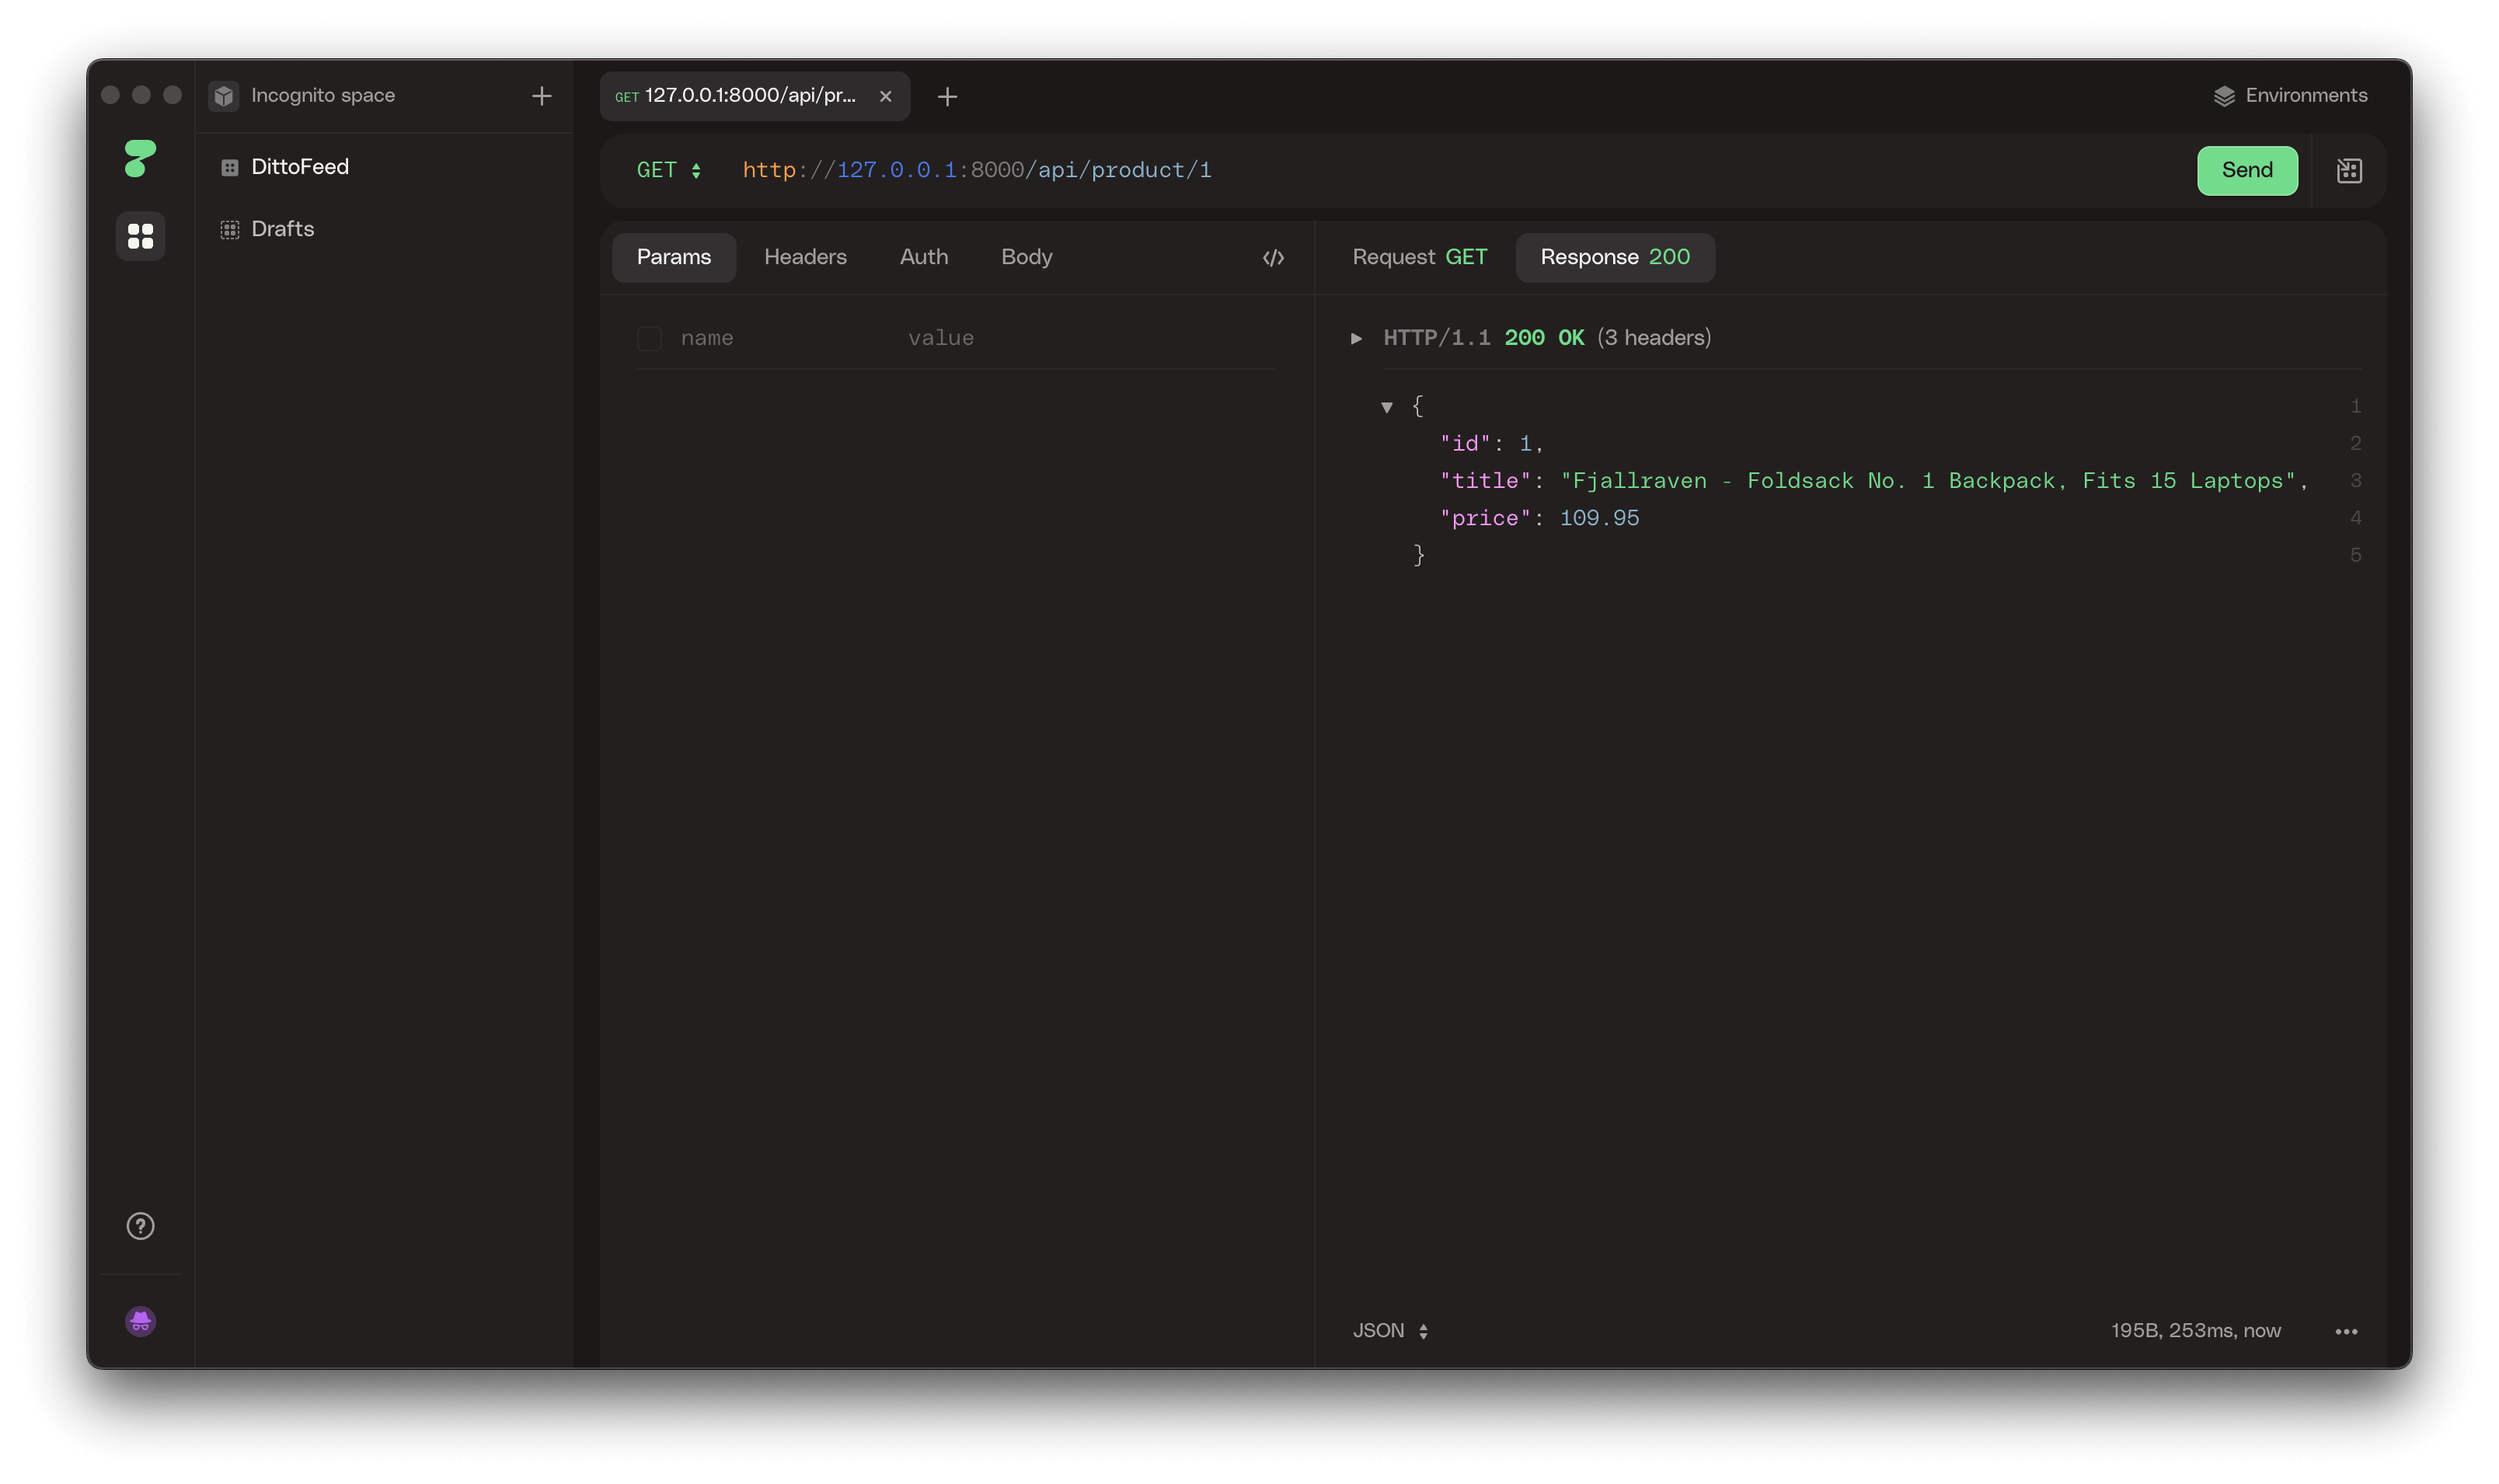
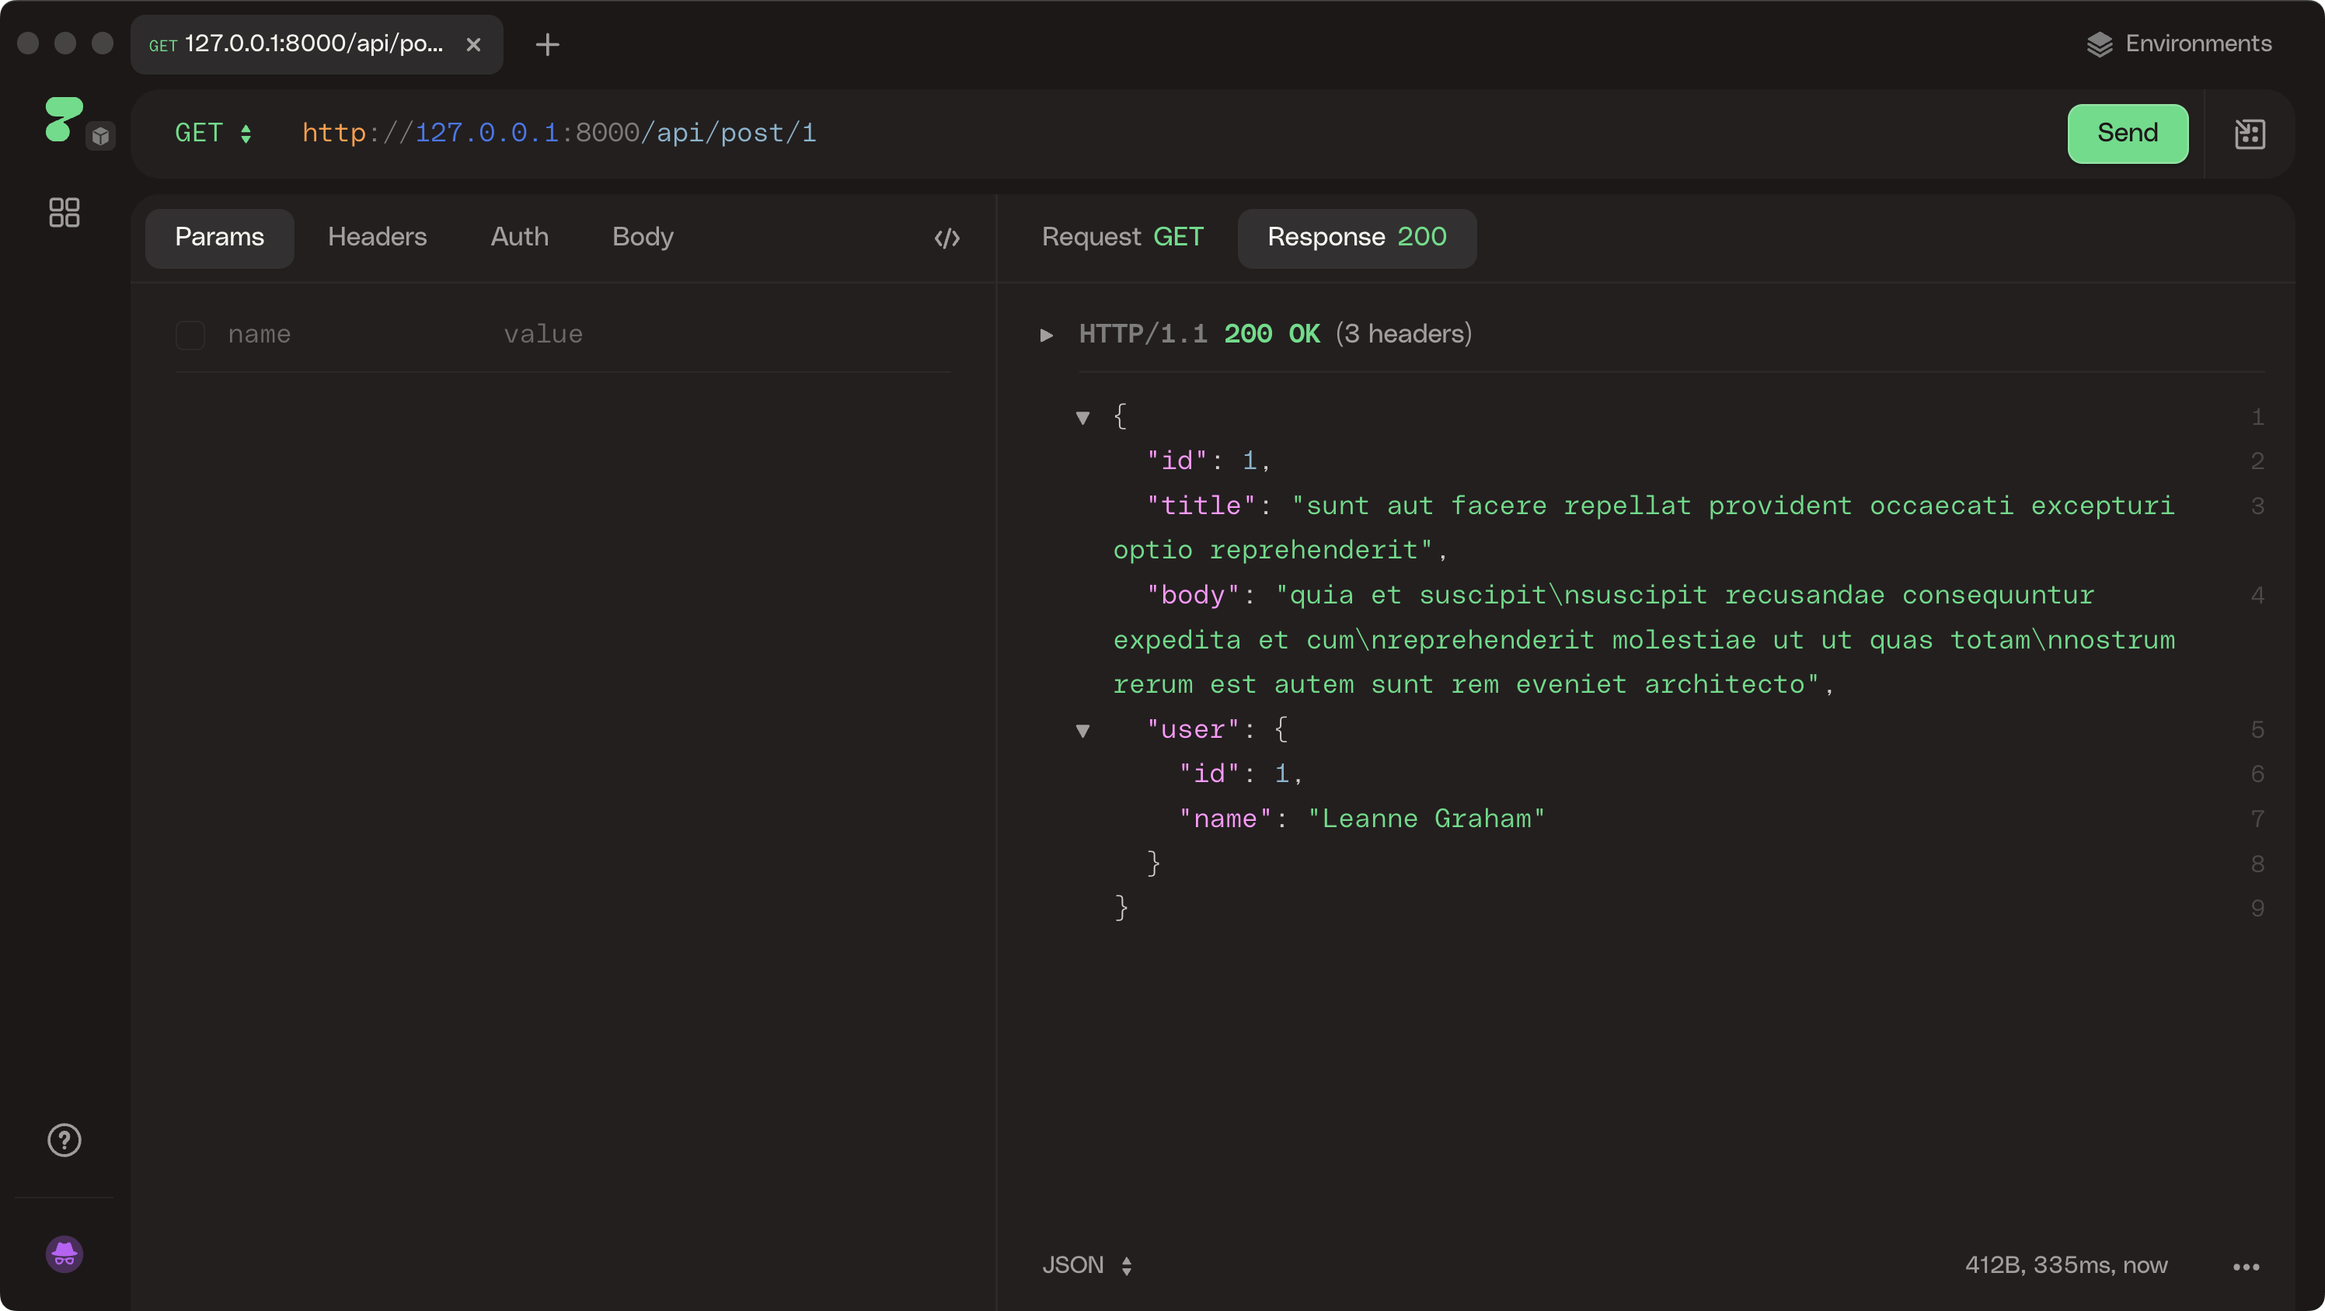
fix: add changes

diff --git a/docs/operators/rest.md b/docs/operators/rest.md
@@ -1,11 +1,11 @@
 ---
-title: REST on GraphQL
+title: "@rest"
 description: Exposing REST endpoints on top of GraphQL via @rest directive.
 ---
 
-Tailcall's `@rest` directive exposes standard REST endpoints, enabling the fetching of data from REST APIs directly through GraphQL queries.
+Every one needs orchestration for APIs but everyone can't move to GraphQL and there are valid reasons for not moving to GraphQL. This feature allows people to building the Tailcall DSL, leveraging the GraphQL capabilities at compile time and generating REST endpoint for actual use instead. REST is a well-known standard so works with traditional API Infrastructure - CDNs Gateways etc.
 
-This guide will show you how to use the `@rest` directive to create a RESTful service over a GraphQL layer for retrieving product information.
+This guide will show you how to use the `@rest` directive to create a RESTful service over a GraphQL layer
 
 ## The @rest Directive Basics
 
@@ -28,29 +28,31 @@ First, define the GraphQL types and queries. Use the `@rest` directive to map Gr
 ```graphql
 schema
   @server(graphiql: true)
-  @upstream(baseURL: "https://fakestoreapi.com/")
+  @upstream(baseURL: "https://jsonplaceholder.typicode.com")
   @link(type: Operation, src: "user-operation.graphql") {
   query: Query
 }
 
 type Query {
-  product(id: Int!): Product
-    @http(path: "/products/{{args.id}}")
+  post(id: Int!): Post @http(path: "/posts/{{args.id}}")
+  user(id: Int!): User @http(path: "/users/{{args.id}}")
 }
 
-type Product {
+type Post {
+  userId: Int!
   id: Int
   title: String
-  price: Float
-  description: String
-  category: String
-  image: String
-  rating: Rating
+  body: String
+  user: User @http(path: "/users/{{value.userId}}")
 }
 
-type Rating {
-  rate: Float
-  count: Int
+type User {
+  id: Int!
+  name: String!
+  username: String!
+  email: String!
+  phone: String
+  website: String
 }
 ```
 
@@ -59,18 +61,21 @@ type Rating {
 `user-operation.graphql`
 
 ```graphql
-query ($id: Int!) @rest(method: GET, path: "/product/$id") {
-  product(id: $id) {
+query ($id: Int!) @rest(method: GET, path: "/post/$id") {
+  post(id: $id) {
     id
     title
-    price
+    body
+    user {
+      id
+      name
+    }
   }
 }
 ```
 
-Let's try querying our newly created REST endpoint in our HTTP Client.
-We'll make a `GET` request to `http://127.0.0.1:8000/api/product/1` and see if we get the expected response.
-
 #### Response
 
 ![REST Demo](/images/docs/rest.png)
+
+In summary, by utilizing the `@rest` directive, we've seamlessly integrated RESTful services with GraphQL, enhancing the traditional posts API to offer richer functionality without additional code. This approach combines the simplicity and ubiquity of REST with the modularity and flexibility of GraphQL, allowing for easy consumption from any HTTP client while leveraging GraphQL's powerful data querying capabilities.
